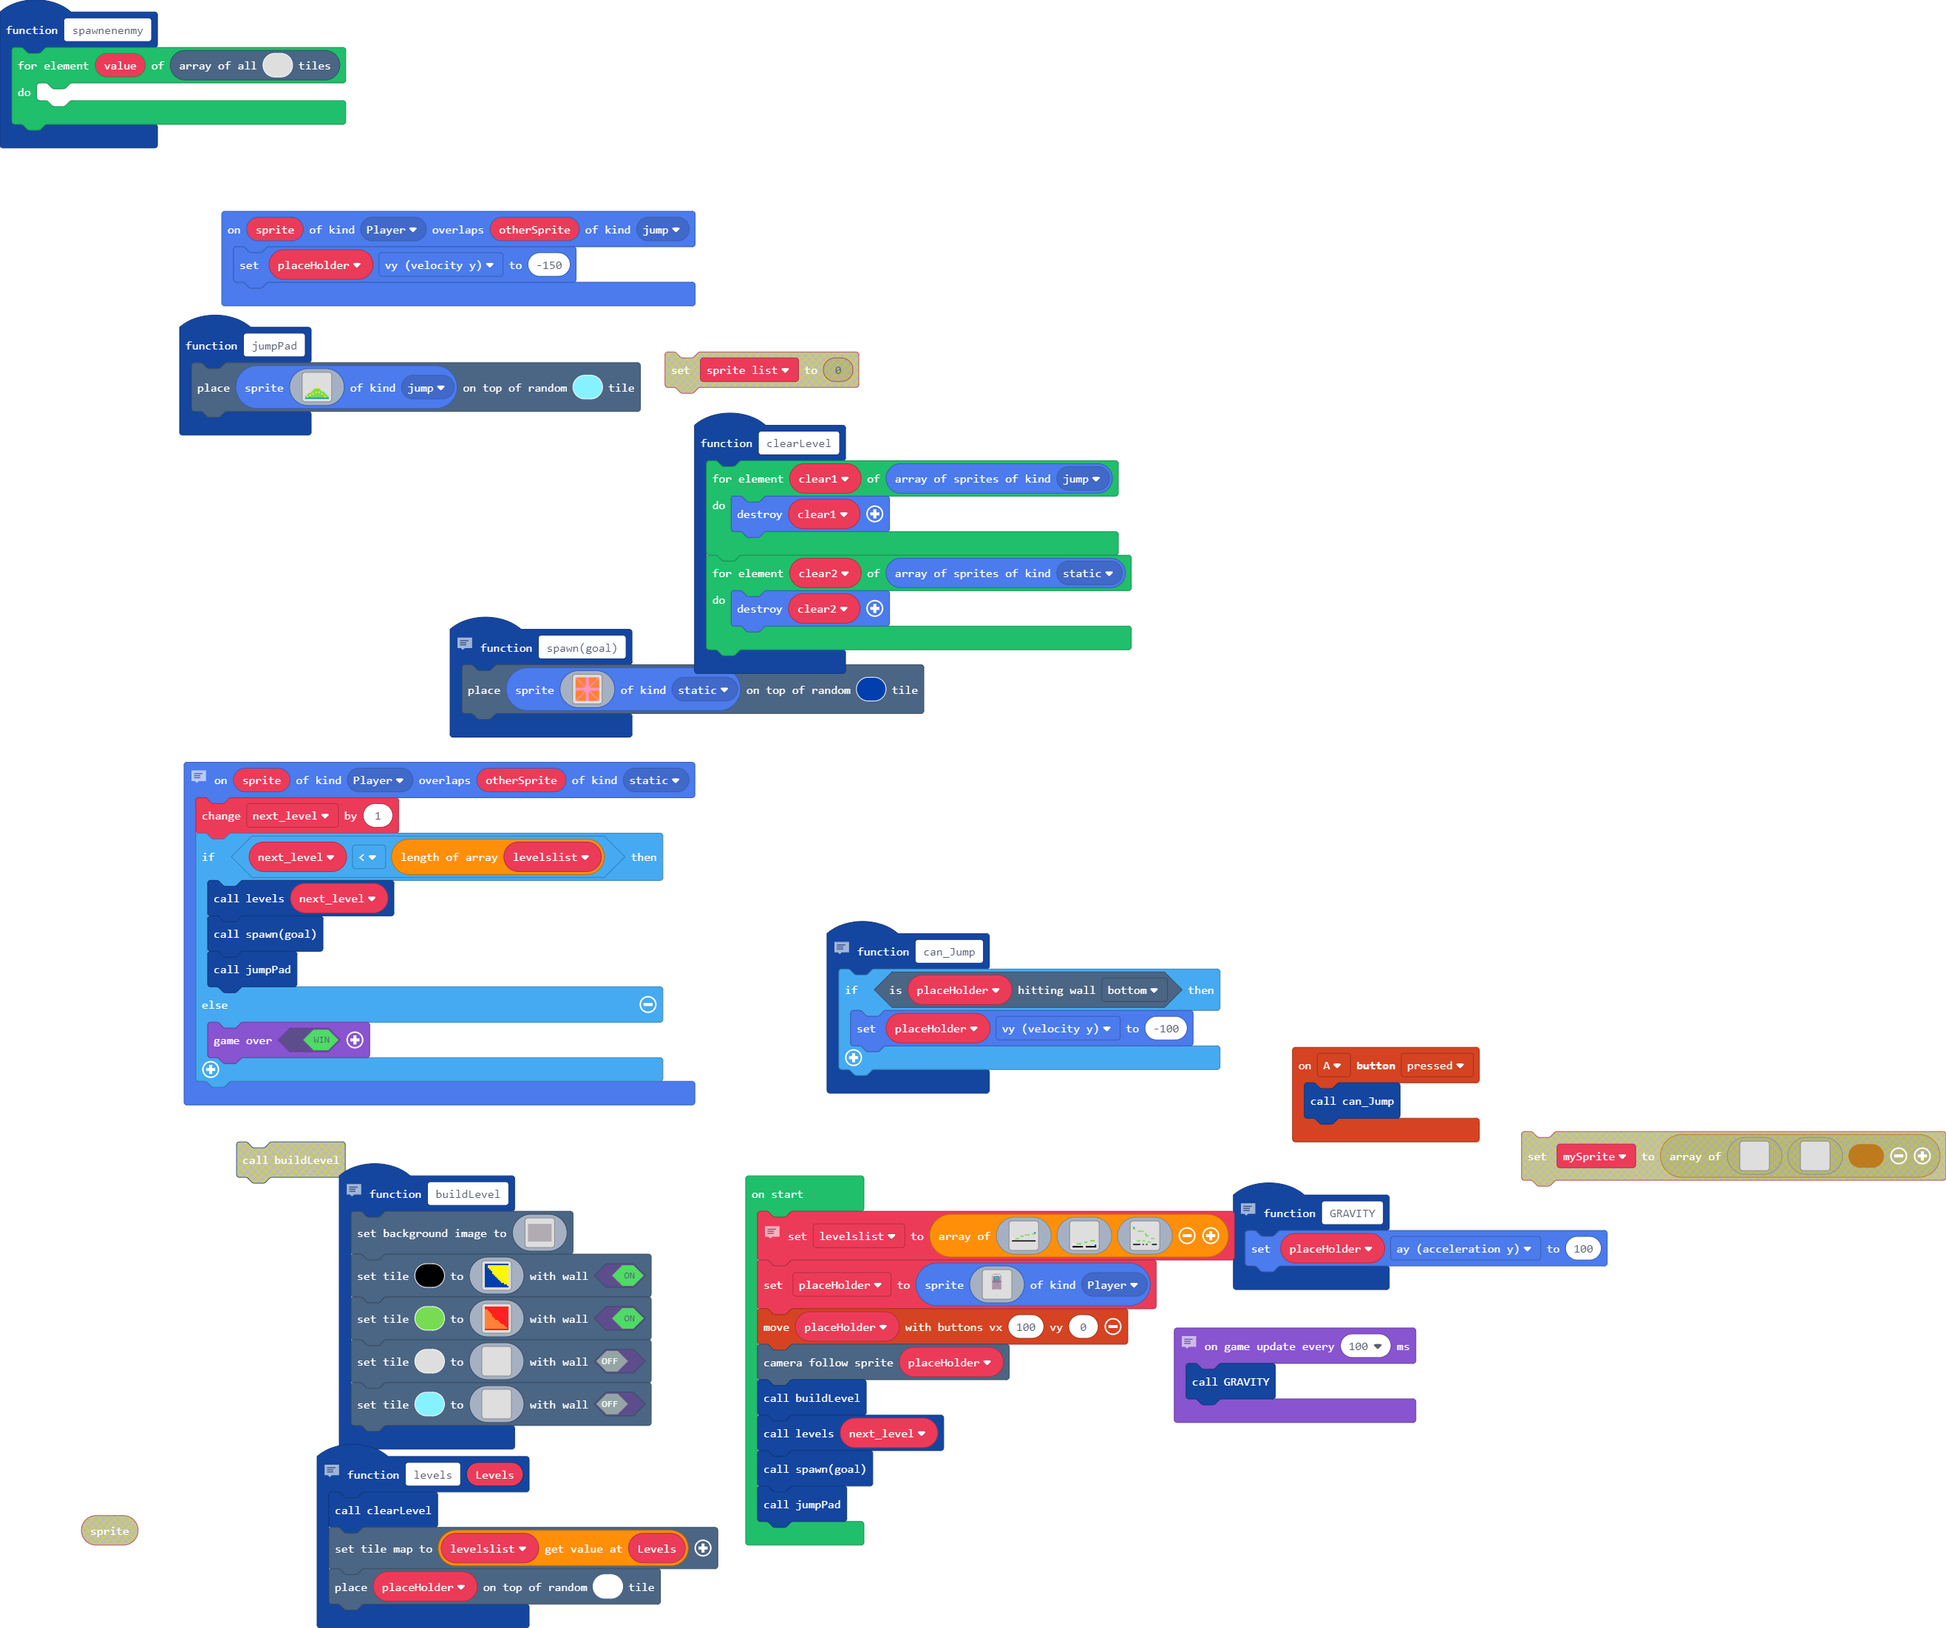
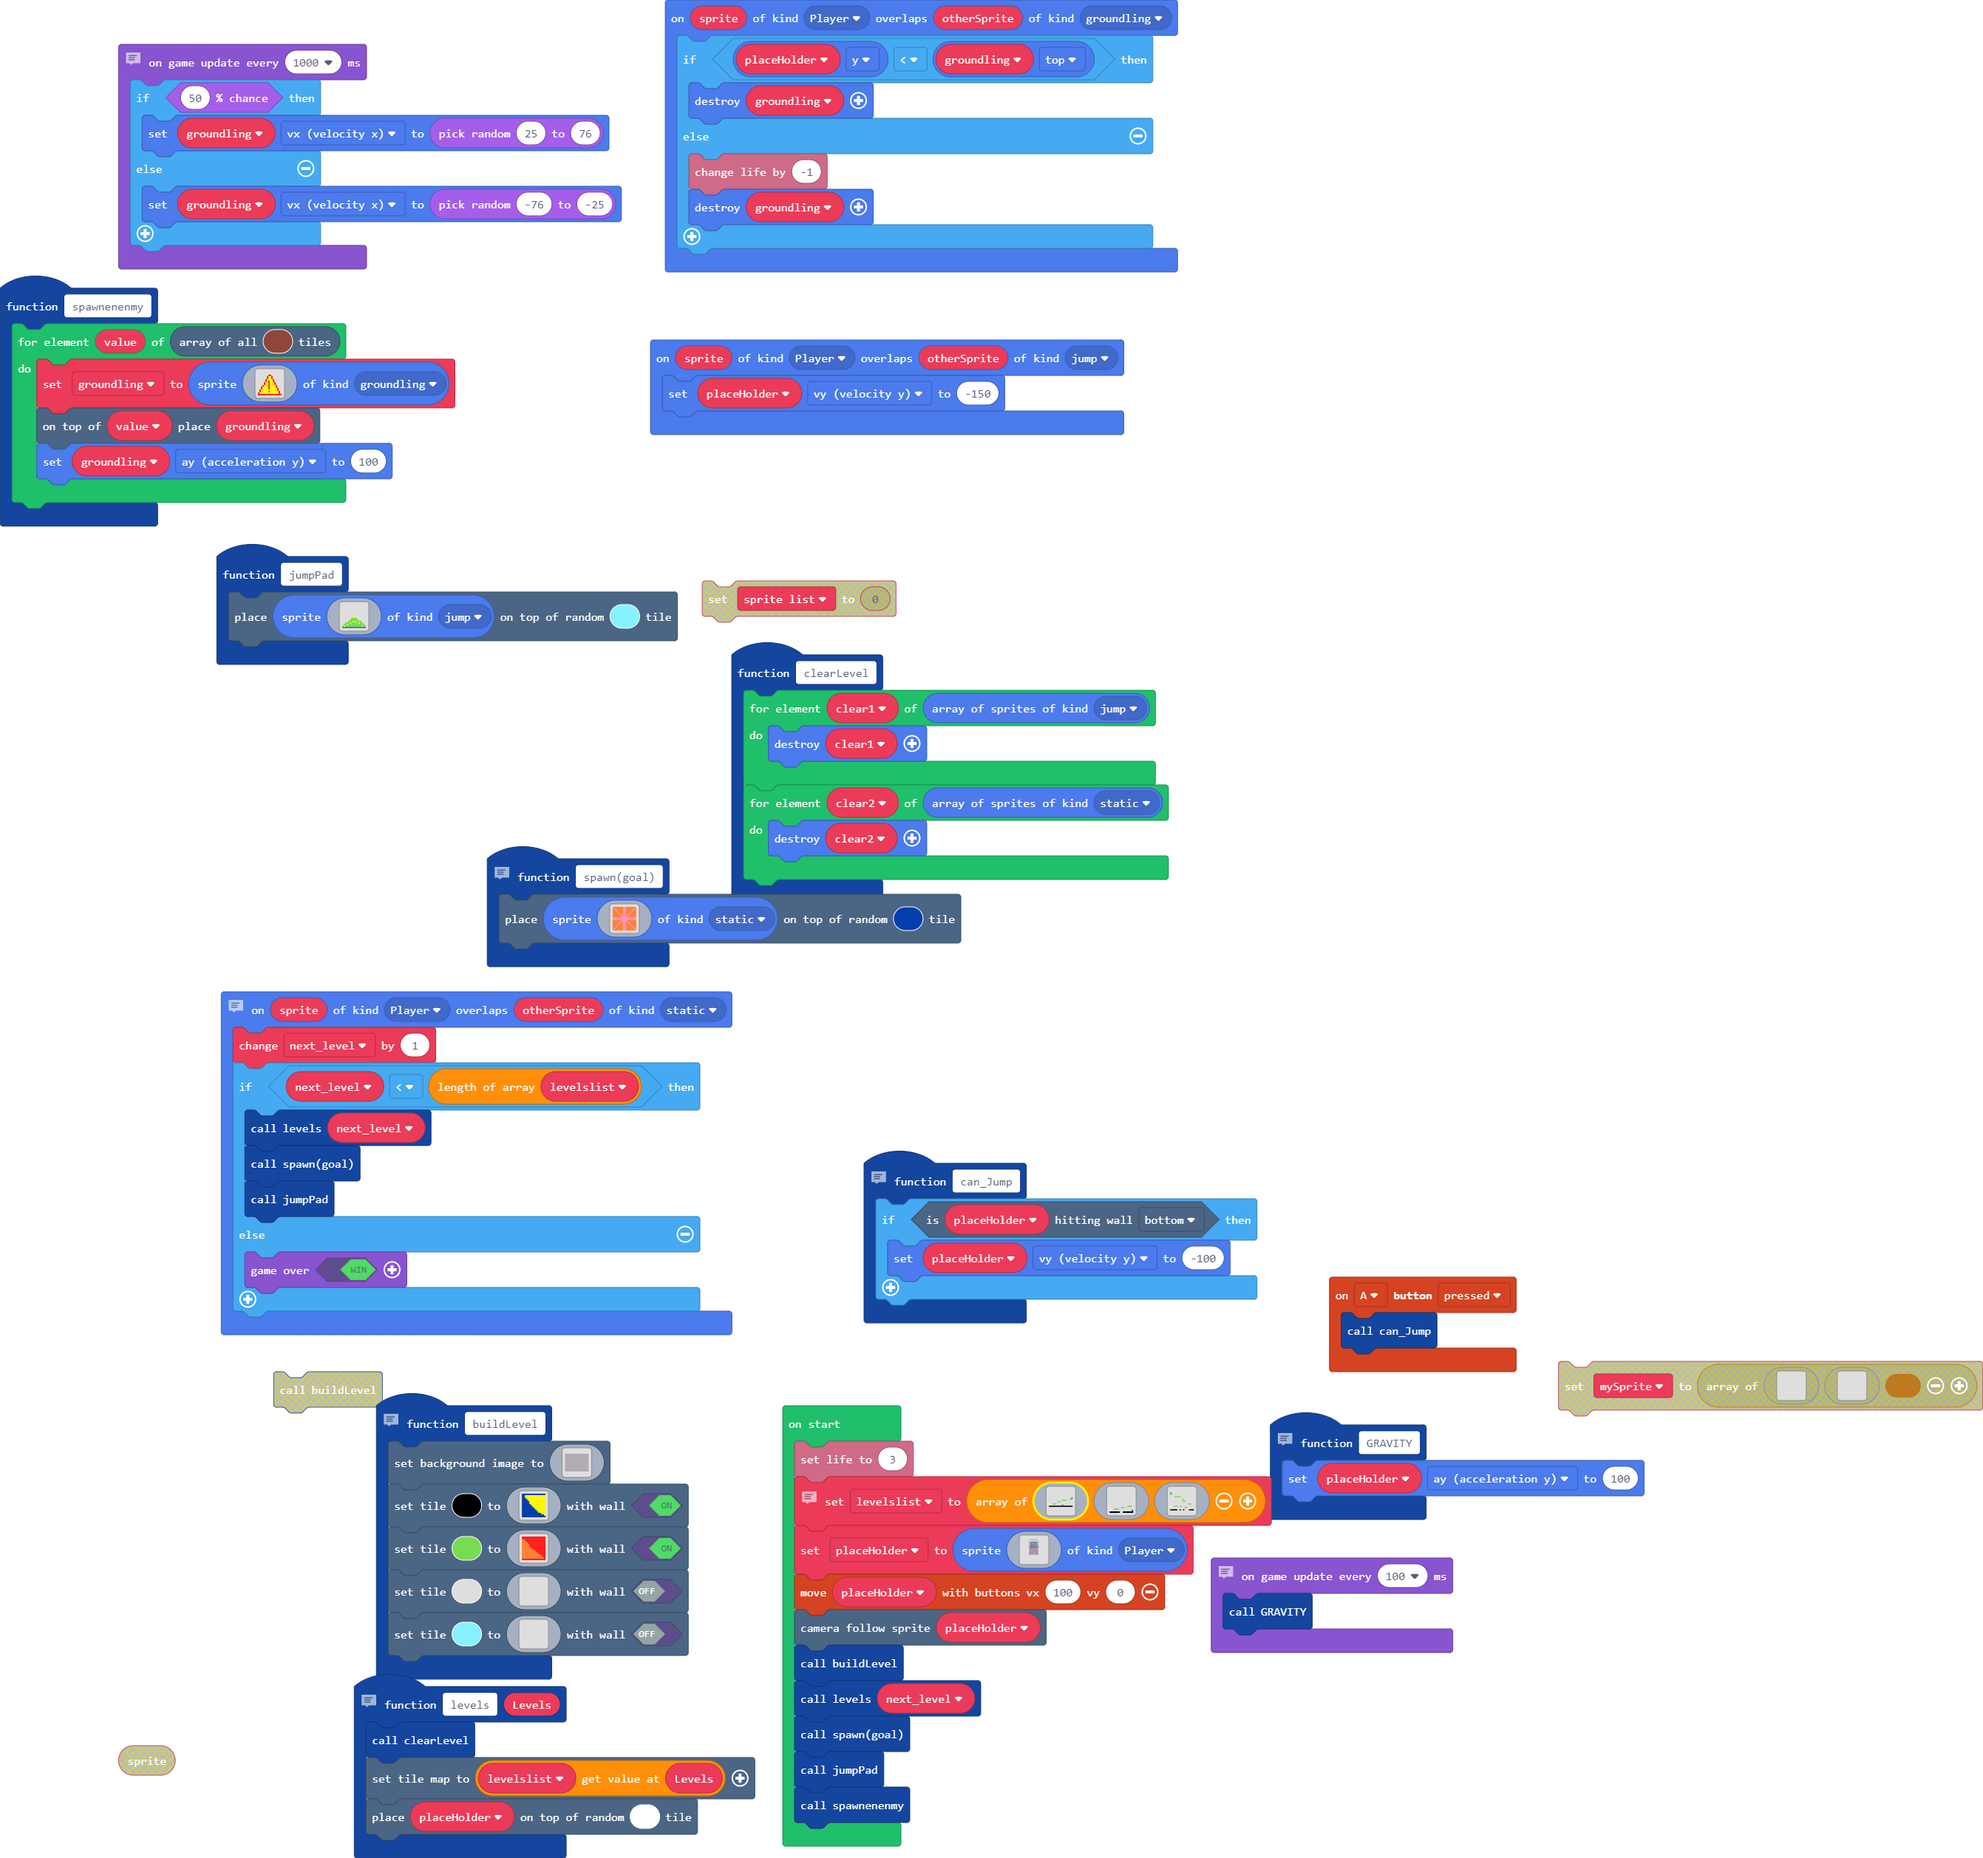
Update main.blocks, main.ts

diff --git a/main.ts b/main.ts
@@ -1,6 +1,7 @@
 namespace SpriteKind {
     export const static = SpriteKind.create()
     export const jump = SpriteKind.create()
+    export const groundling = SpriteKind.create()
 }
 namespace myTiles {
     //% blockIdentity=images._tile
@@ -149,9 +150,36 @@ sprites.onOverlap(SpriteKind.Player, SpriteKind.static, function (sprite, otherS
         game.over(true)
     }
 })
+sprites.onOverlap(SpriteKind.Player, SpriteKind.groundling, function (sprite, otherSprite) {
+    if (placeHolder.y < groundling.top) {
+        groundling.destroy()
+    } else {
+        info.changeLifeBy(-1)
+        groundling.destroy()
+    }
+})
 function spawnenenmy () {
-    for (let value of scene.getTilesByType(0)) {
-    	
+    for (let value of scene.getTilesByType(14)) {
+        groundling = sprites.create(img`
+. . . . . . . . . . . . . . . . 
+. . . . . . . . . . . . . . . . 
+. . . . . . . 2 2 . . . . . . . 
+. . . . . . 2 5 5 2 . . . . . . 
+. . . . . . 2 5 5 2 . . . . . . 
+. . . . . 2 5 5 5 5 2 . . . . . 
+. . . . . 2 5 2 5 5 2 . . . . . 
+. . . . 2 5 5 2 5 5 5 2 . . . . 
+. . . . 2 5 5 2 5 5 5 2 . . . . 
+. . . 2 5 5 5 2 5 5 5 5 2 . . . 
+. . 2 5 5 5 5 2 5 5 5 5 2 . . . 
+. . 2 5 5 5 5 2 5 5 5 5 5 2 . . 
+. 2 5 5 5 5 5 5 5 5 5 5 5 2 . . 
+. 2 5 5 5 5 5 2 5 5 5 5 5 5 2 . 
+2 5 5 5 5 5 5 5 5 5 5 5 5 5 2 . 
+2 2 2 2 2 2 2 2 2 2 2 2 2 2 2 2 
+`, SpriteKind.groundling)
+        scene.place(value, groundling)
+        groundling.ay = 100
     }
 }
 sprites.onOverlap(SpriteKind.Player, SpriteKind.jump, function (sprite, otherSprite) {
@@ -426,9 +454,11 @@ function spawngoal () {
 function GRAVITY () {
     placeHolder.ay = 100
 }
+let groundling: Sprite = null
 let next_level = 0
 let placeHolder: Sprite = null
 let levelslist: Image[] = []
+info.setLife(3)
 // blocks of the levels before sprites are applied
 levelslist = [img`
 . . . . . . . . . . . . . . . . . . . . 
@@ -439,7 +469,7 @@ levelslist = [img`
 . . . . . . . 7 7 7 . . . . . . . . . . 
 . . . . . . . . . . . . . . . . . . . . 
 1 . . 7 7 7 . . . . . . . . . . . . . . 
-. . . . . . . . . . . . . . 9 . . . . . 
+. . . . . . . . . . . e . . 9 . . . . . 
 f f f f f f f f f f f f f f f f f f f f 
 `, img`
 . . . . . . . . . . . . . . . . 
@@ -518,7 +548,17 @@ buildLevel()
 levels(next_level)
 spawngoal()
 jumpPad()
+spawnenenmy()
 // "gravity" is  applies every 100 ms
 game.onUpdateInterval(100, function () {
     GRAVITY()
+})
+// decides whether the groundling will move right or
+// left every second
+game.onUpdateInterval(1000, function () {
+    if (Math.percentChance(50)) {
+        groundling.vx = Math.randomRange(25, 76)
+    } else {
+        groundling.vx = Math.randomRange(-76, -25)
+    }
 })
